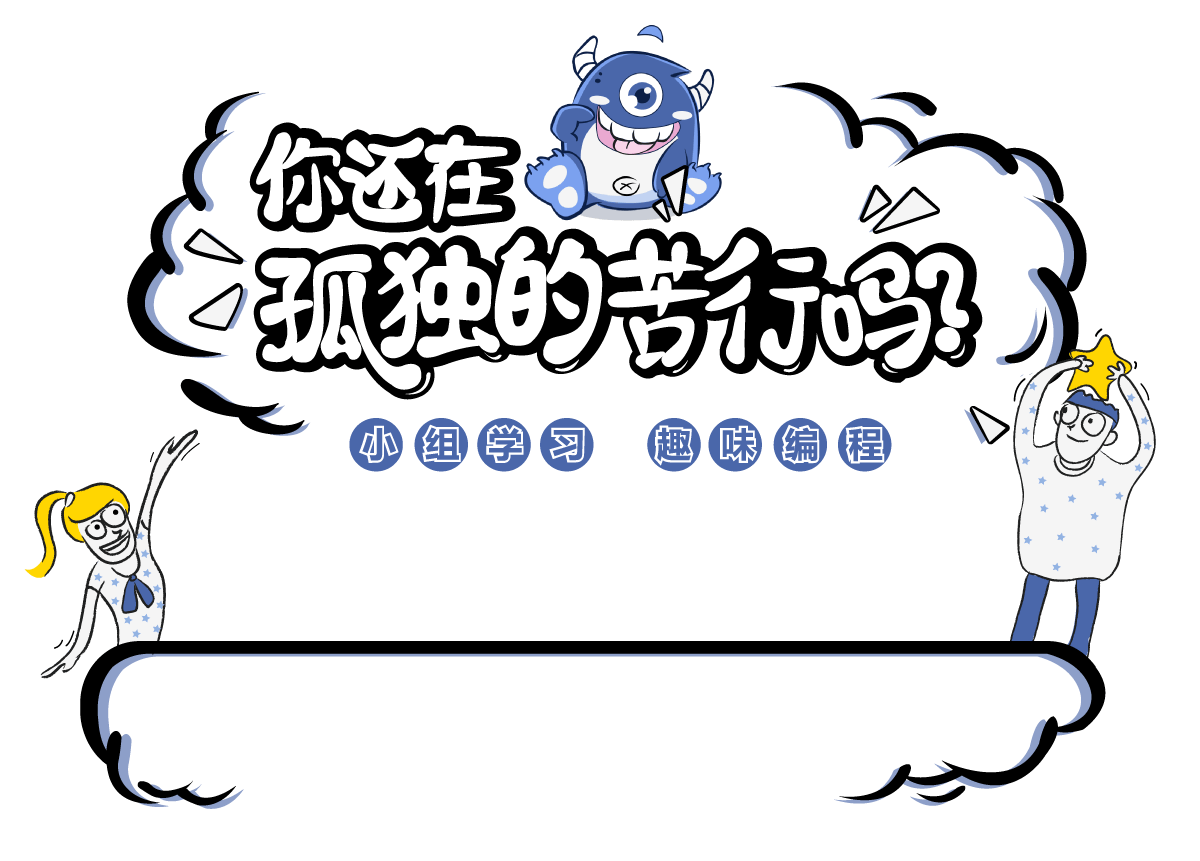
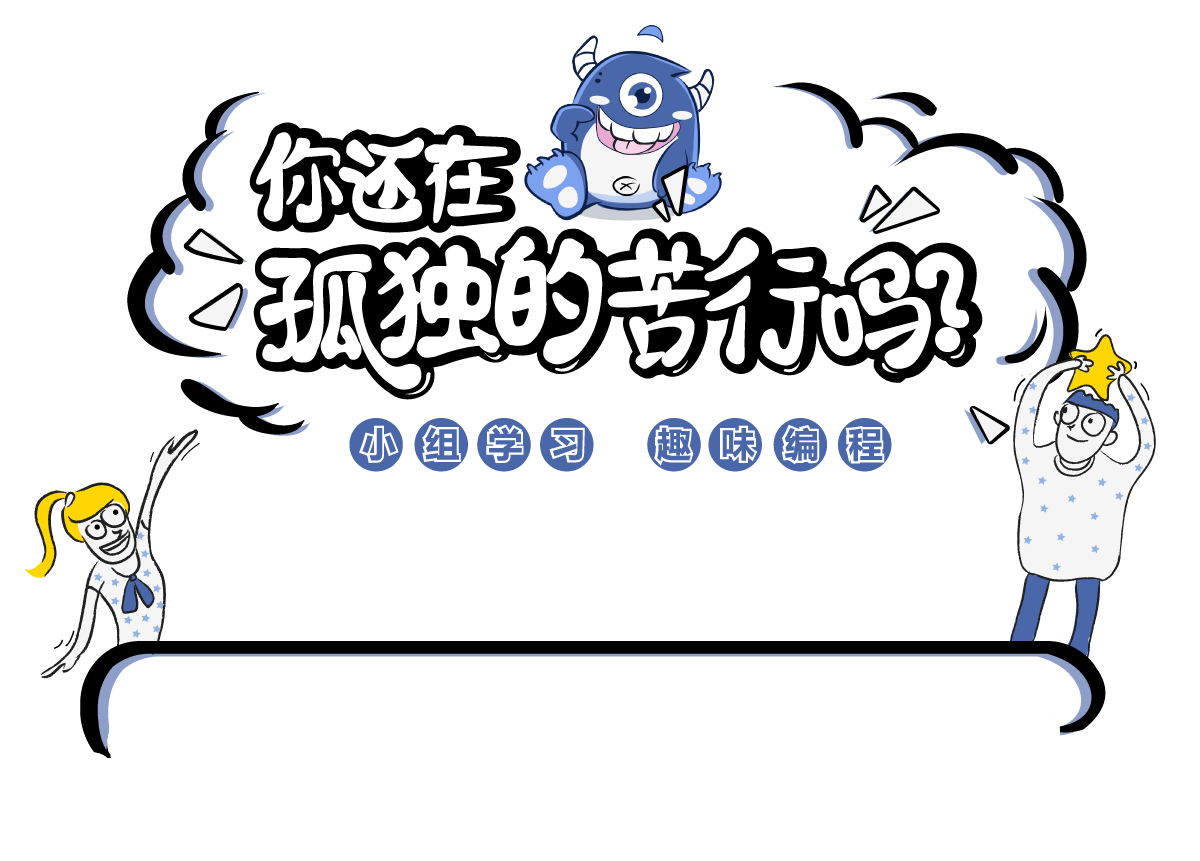
test server

Changed region(s): [[0.7092, 0.8153, 0.8942, 0.9361], [0.0617, 0.8455, 0.2158, 0.9361]]

diff --git a/app/assets/stylesheets/welcome.scss b/app/assets/stylesheets/welcome.scss
@@ -6,23 +6,11 @@
 .lp {
   background-image: url("lp-bg.png");
   background-color: #93b3e2;
-  // position: relative;
   .img-header {
     background: url("lp01.png") no-repeat center top;
     height: 806px;
     overflow: hidden;
     margin: 0 auto;
-  }
-}
-
-.ask {
-  .ask-left {
-    max-height: 220px;
-    max-width: 400px;
-    background: url("ask-left.png") no-repeat center;
-  }
-  .ask-right {
-    background: url("ask-right.png") no-repeat center top;
   }
 }
 
@@ -74,6 +62,7 @@
 }
 
 .line {
+  clear: both;
 	height: 18px;
 	line-height: 18px;
 	text-align: center;
@@ -96,7 +85,18 @@
 	color: #666;
 	padding: 0 20px;
 	display: inline-block;
-	background-color: #ffd600;
+	background-color: #93b3e2;
 	position: relative;
 	z-index: 2
+}
+
+
+// --------- Camp page ----------
+.camp {
+  .bg {
+    background-image: url("camp-bg.jpeg");
+    background-size: contain;
+    background-position: center;
+    height: 500px;
+  }
 }

diff --git a/app/assets/stylesheets/admin/tasks.scss b/app/assets/stylesheets/admin/tasks.scss
@@ -148,7 +148,7 @@ code {
 }
 
 
-.markdown h1, h2 {
+.markdown h1, .markdown h2 {
 	border-bottom: 2px solid #eee;
 }
 

diff --git a/config/deploy.rb b/config/deploy.rb
@@ -1,0 +1,80 @@
+require 'mina/bundler'
+require 'mina/rails'
+require 'mina/git'
+require 'mina/puma'
+require 'mina/rbenv'  # for rbenv support. (https://rbenv.org)
+# require 'mina/rvm'    # for rvm support. (https://rvm.io)
+
+# Basic settings:
+#   domain       - The hostname to SSH to.
+#   deploy_to    - Path to deploy into.
+#   repository   - Git repo to clone from. (needed by mina/git)
+#   branch       - Branch name to deploy. (needed by mina/git)
+
+set :application_name, 'pets-home-again'
+set :domain, 'apps@xx.xx.xx.xx'
+set :deploy_to, '/var/www/pets-home-again'
+set :repository, 'git://github.com/imtinge/pets-home.git'
+set :branch, 'master'
+
+# Optional settings:
+#   set :user, 'foobar'          # Username in the server to SSH to.
+#   set :port, '30000'           # SSH port number.
+#   set :forward_agent, true     # SSH forward_agent.
+
+# shared dirs and files will be symlinked into the app-folder by the 'deploy:link_shared_paths' step.
+set :shared_dirs, fetch(:shared_dirs, []).push('log', 'tmp/pids', 'tmp/sockets', 'public/uploads')
+set :shared_files, fetch(:shared_files, []).push('config/database.yml', 'config/secrets.yml', 'config/puma.rb')
+
+# This task is the environment that is loaded for all remote run commands, such as
+# `mina deploy` or `mina rake`.
+task :environment do
+  # If you're using rbenv, use this to load the rbenv environment.
+  # Be sure to commit your .ruby-version or .rbenv-version to your repository.
+  invoke :'rbenv:load'
+
+  # For those using RVM, use this to load an RVM version@gemset.
+  # invoke :'rvm:use', 'ruby-1.9.3-p125@default'
+end
+
+# Put any custom commands you need to run at setup
+# All paths in `shared_dirs` and `shared_paths` will be created on their own.
+task :setup do
+  # command %{rbenv install 2.3.0}
+  command %[touch "#{fetch(:shared_path)}/config/database.yml"]
+  command %[touch "#{fetch(:shared_path)}/config/secrets.yml"]
+  command %[touch "#{fetch(:shared_path)}/config/puma.rb"]
+  comment "Be sure to edit '#{fetch(:shared_path)}/config/database.yml', 'secrets.yml' and puma.rb."
+end
+
+desc "Deploys the current version to the server."
+task :deploy do
+  # uncomment this line to make sure you pushed your local branch to the remote origin
+  # invoke :'git:ensure_pushed'
+  deploy do
+    comment "Deploying #{fetch(:application_name)} to #{fetch(:domain)}:#{fetch(:deploy_to)}"
+    # Put things that will set up an empty directory into a fully set-up
+    # instance of your project.
+    invoke :'git:clone'
+    invoke :'deploy:link_shared_paths'
+    invoke :'bundle:install'
+    invoke :'rails:db_migrate'
+    invoke :'rails:assets_precompile'
+    invoke :'deploy:cleanup'
+
+    on :launch do
+      in_path(fetch(:current_path)) do
+        command %{mkdir -p tmp/}
+        command %{touch tmp/restart.txt}
+        invoke :'puma:restart'
+      end
+    end
+  end
+
+  # you can use `run :local` to run tasks on local machine before of after the deploy scripts
+  # run(:local){ say 'done' }
+end
+
+# For help in making your deploy script, see the Mina documentation:
+#
+#  - https://github.com/mina-deploy/mina/tree/master/docs

diff --git a/config/initializers/devise.rb b/config/initializers/devise.rb
@@ -7,6 +7,7 @@ Devise.setup do |config|
   # Devise will use the `secret_key_base` as its `secret_key`
   # by default. You can change it below and use your own secret key.
[1 lines of base64/hex data omitted]
+  config.secret_key = ENV['DEVISE_SECRET_KEY']
 
   # ==> Mailer Configuration
   # Configure the e-mail address which will be shown in Devise::Mailer,

diff --git a/config/routes.rb b/config/routes.rb
@@ -1,7 +1,7 @@
 Rails.application.routes.draw do
   devise_for :users
   # For details on the DSL available within this file, see http://guides.rubyonrails.org/routing.html
-  root "welcome#index"
+  root "welcome#camp"
 
   resources :tasks
 

diff --git a/app/controllers/welcome_controller.rb b/app/controllers/welcome_controller.rb
@@ -2,4 +2,8 @@ class WelcomeController < ApplicationController
   def index
     flash[:notice] = "welcome to daguaixueyuan"
   end
+
+  def camp
+
+  end
 end
